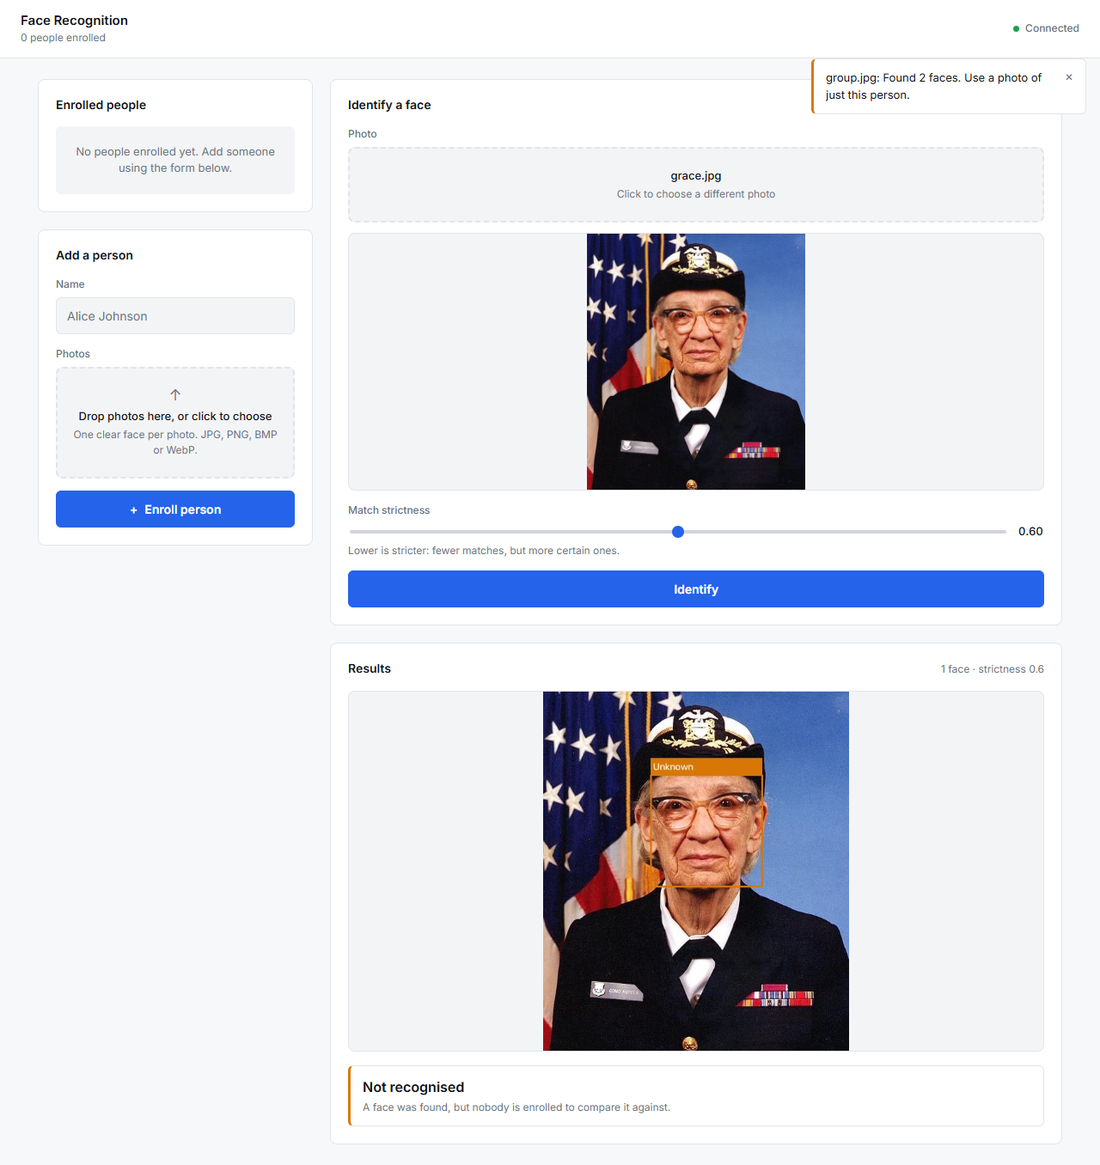
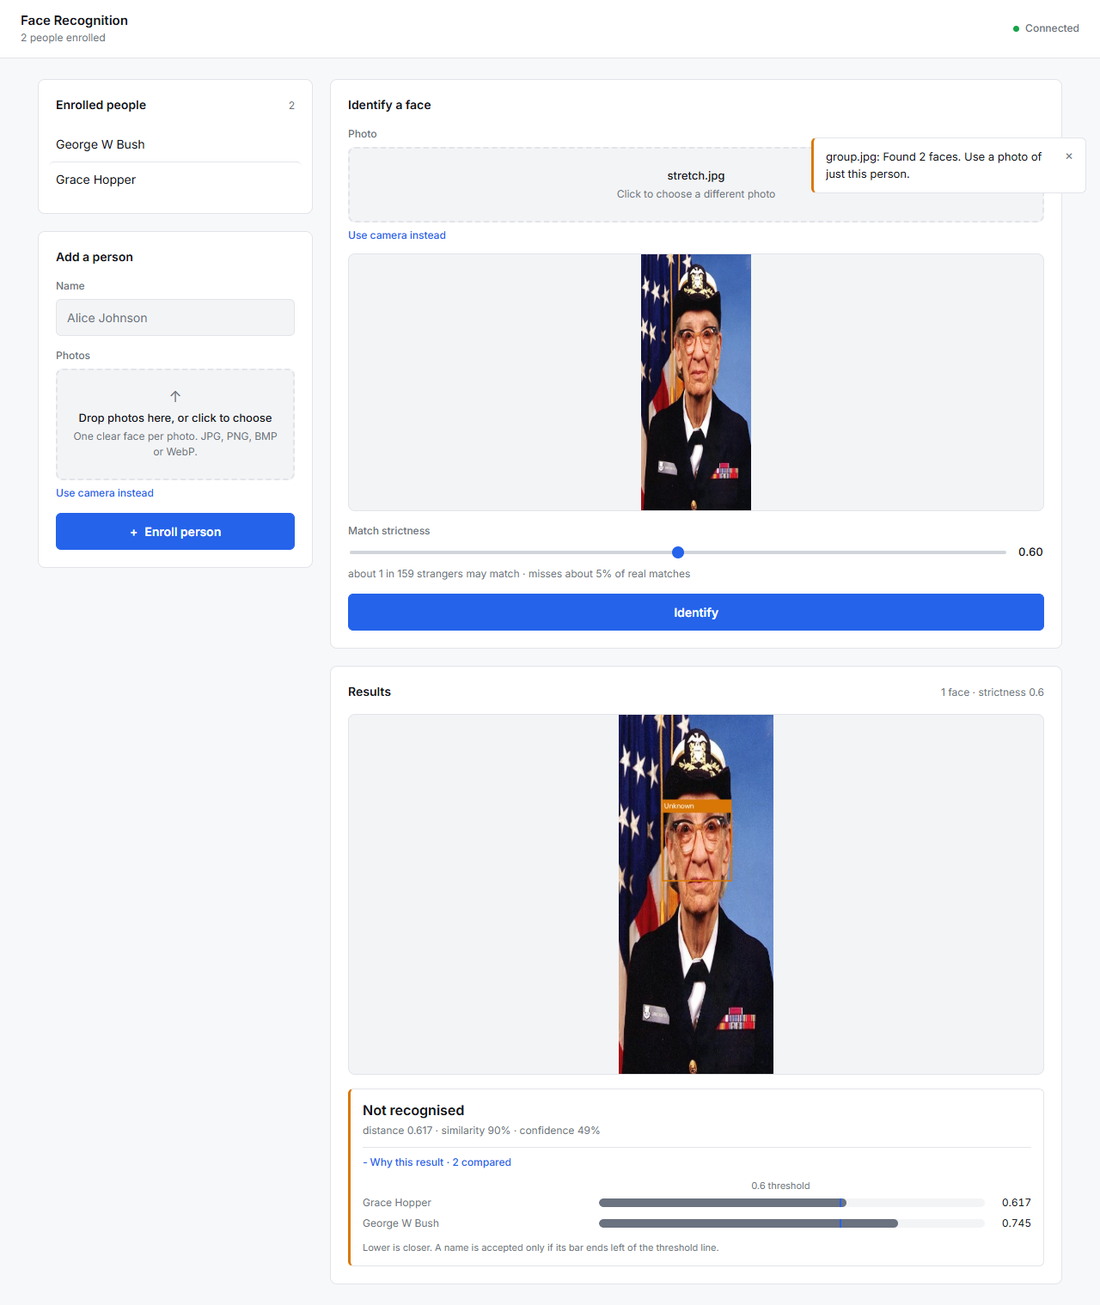
docs: refresh screenshots for the current interface
The committed images predated the match explanation, the camera capture and
the strictness risk readout, so the README showed a version of the UI that no
longer exists.

Recaptured with two people enrolled so the candidate comparison has a genuine
runner-up (0.164 against 0.847) rather than a single bar, and added two shots
for the features that had none: the strictness control warning that 37% of
strangers would match at 0.79, and capture from the camera.

Subjects are Grace Hopper (US Navy photograph, public domain) and an LFW image,
the dataset this project already benchmarks against - deliberately not the
personal or celebrity photographs used for local testing, since this repository
is intended to be public.

diff --git a/README.md b/README.md
@@ -26,16 +26,28 @@ model card. The raw output is committed in [`ml/results/`](ml/results/).
 
 ## The interface
 
-Identifying a face that matches an enrolled person — green border, the name,
-and the distance/similarity/confidence behind it:
+A match, with its reasoning open. The bars show the distance to every enrolled
+person against the accept threshold — what matters is the gap between first and
+second place, which is the difference between a confident result and a coin
+toss:
 
-![Identifying a known face](docs/screenshots/identify-match.png)
+![Identifying a known face, with the candidate comparison expanded](docs/screenshots/identify-match.png)
 
-A face that clears detection but not the rejection threshold. The amber border
-and "Not recognised" are deliberately distinct from an error state: the system
-worked, the person simply is not enrolled.
+A face that clears detection but not the threshold. Amber and "Not recognised"
+are deliberately distinct from an error: the system worked, the person simply
+is not enrolled.
 
 ![A face that is not recognised](docs/screenshots/identify-unknown.png)
+
+The strictness control states the measured consequence of its own setting, so
+loosening it is a decision rather than an accident. At 0.79 more than a third of
+strangers would match:
+
+![The strictness slider warning that 37% of strangers will match](docs/screenshots/threshold-risk.png)
+
+Enrolment and identification also work straight from the camera:
+
+![Capturing a face from the device camera](docs/screenshots/camera-capture.png)
 
 A photo containing more than one face is refused at enrolment rather than
 storing every face under one name, which would silently poison that identity:
@@ -47,6 +59,9 @@ The empty state, and the same layout at phone width:
 | First run | 390px |
 |---|---|
 | ![Empty state](docs/screenshots/empty-state.png) | ![Mobile layout](docs/screenshots/mobile.png) |
+
+> Faces shown are Grace Hopper (US Navy photograph, public domain) and an image
+> from LFW, the dataset this project benchmarks against.
 
 ---
 
